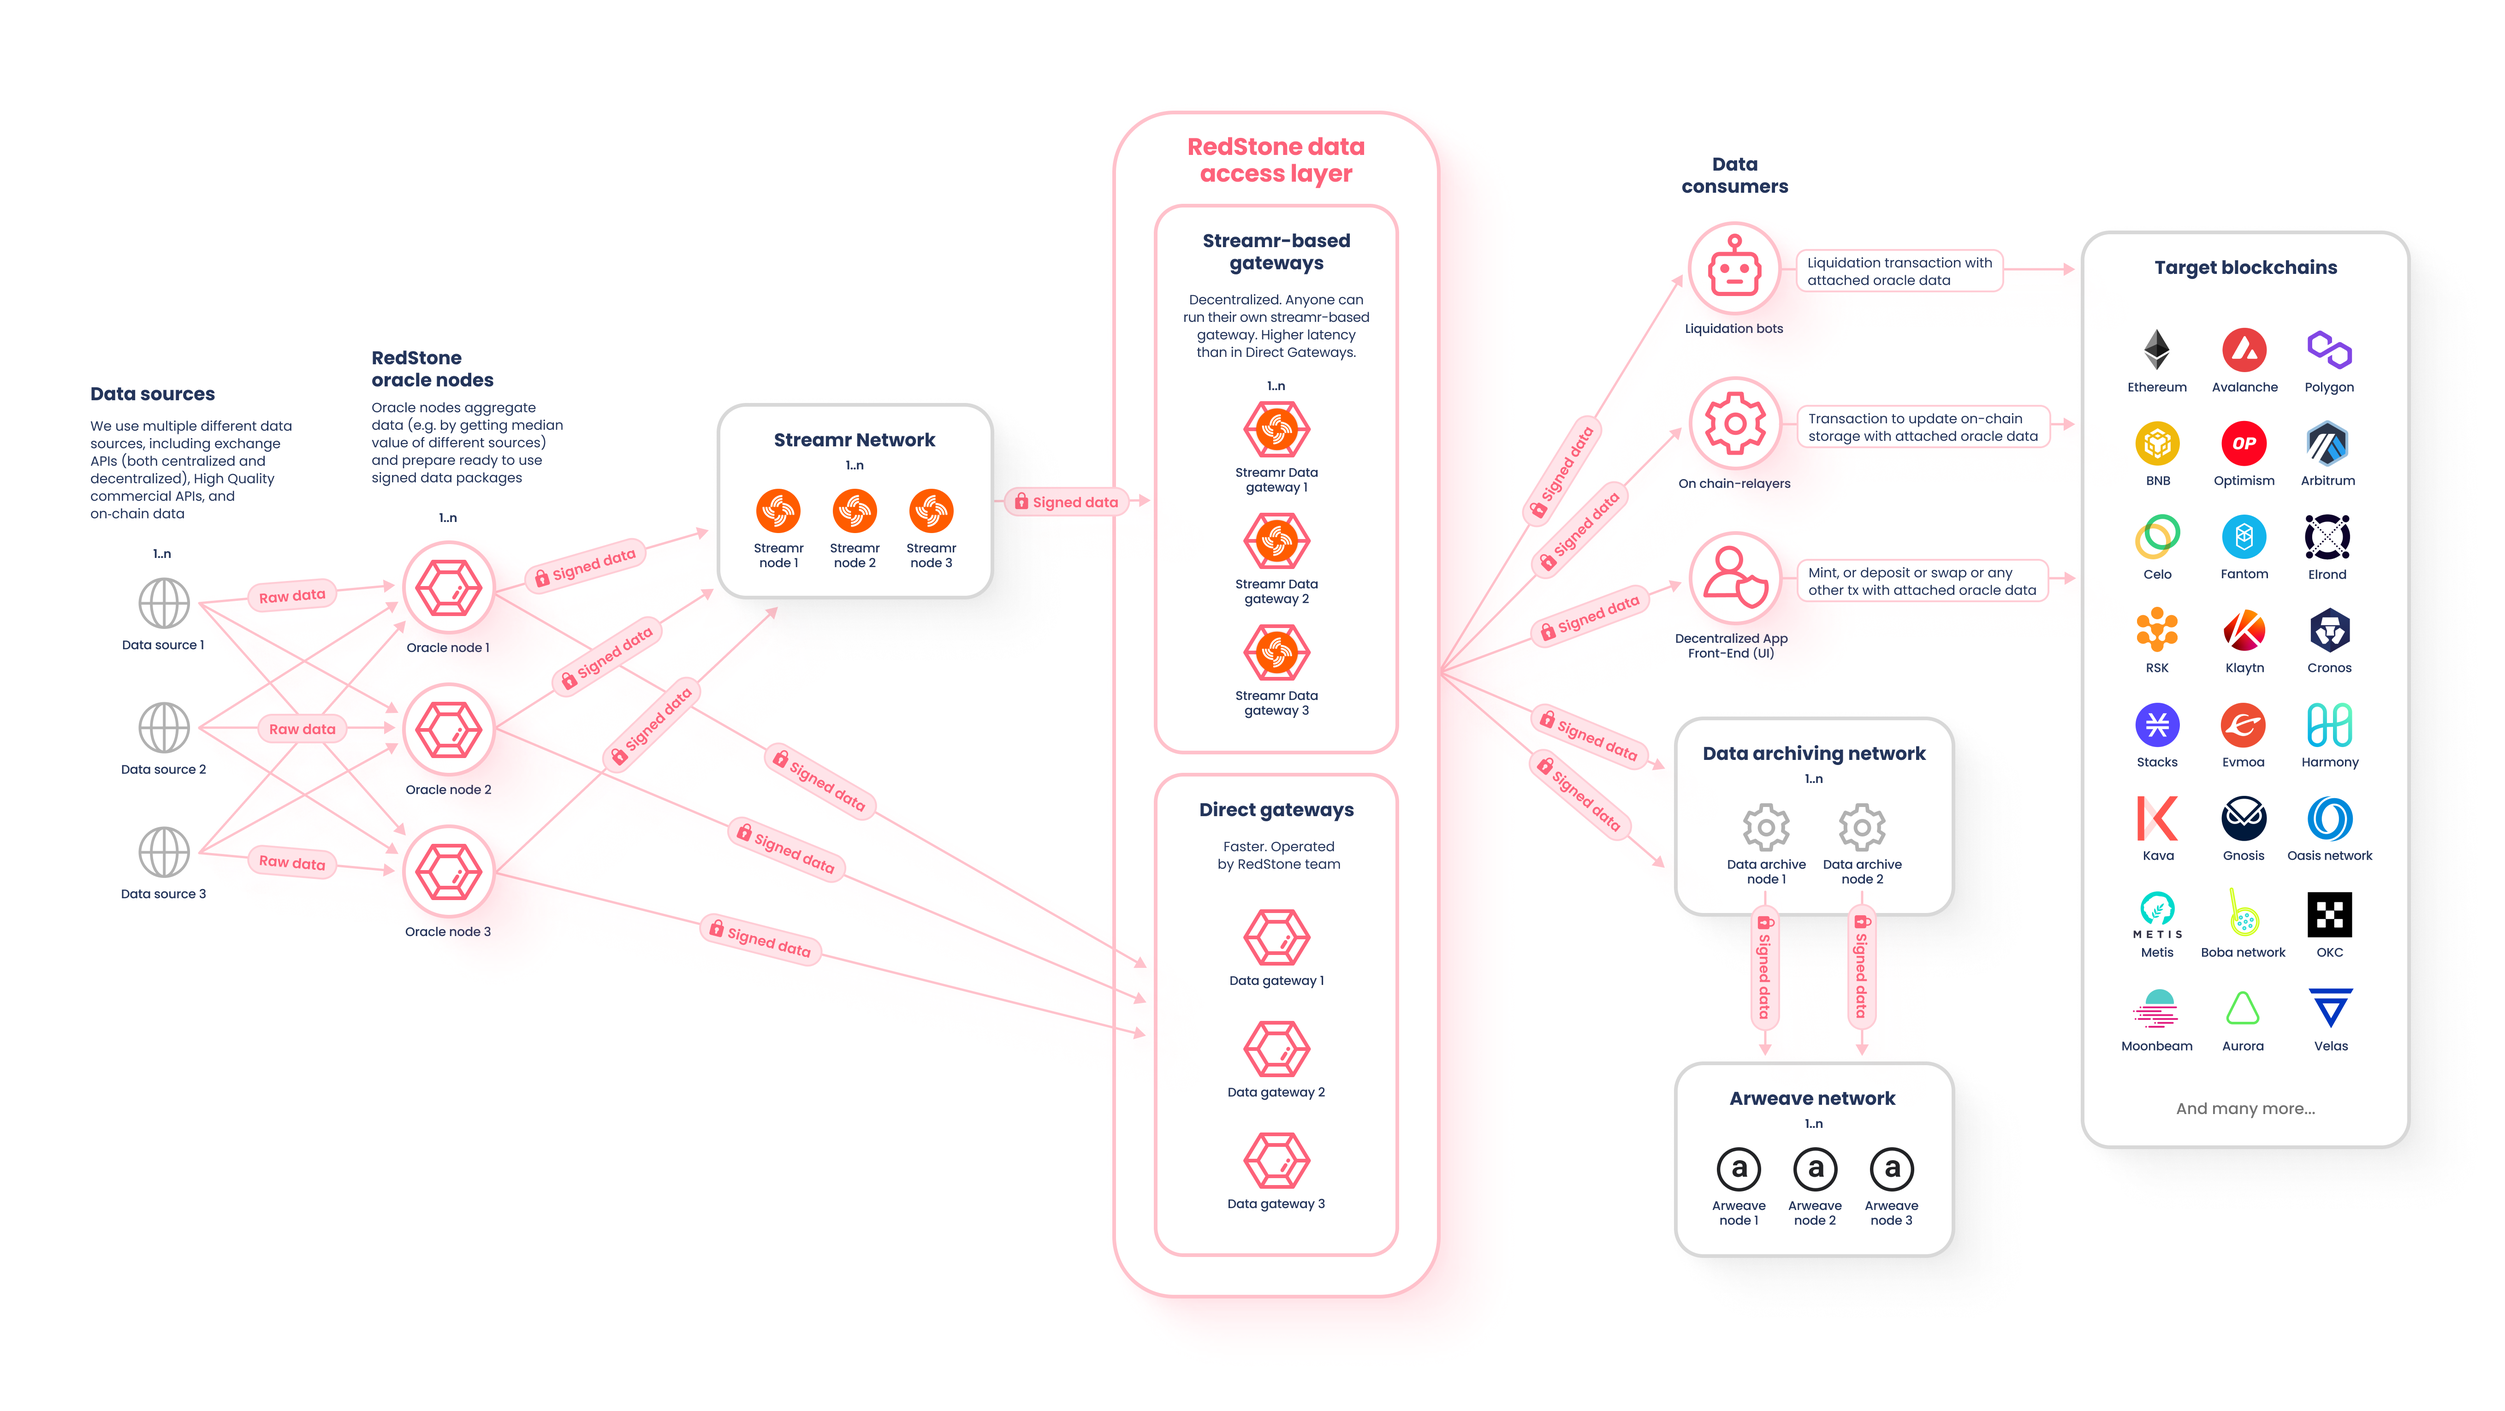
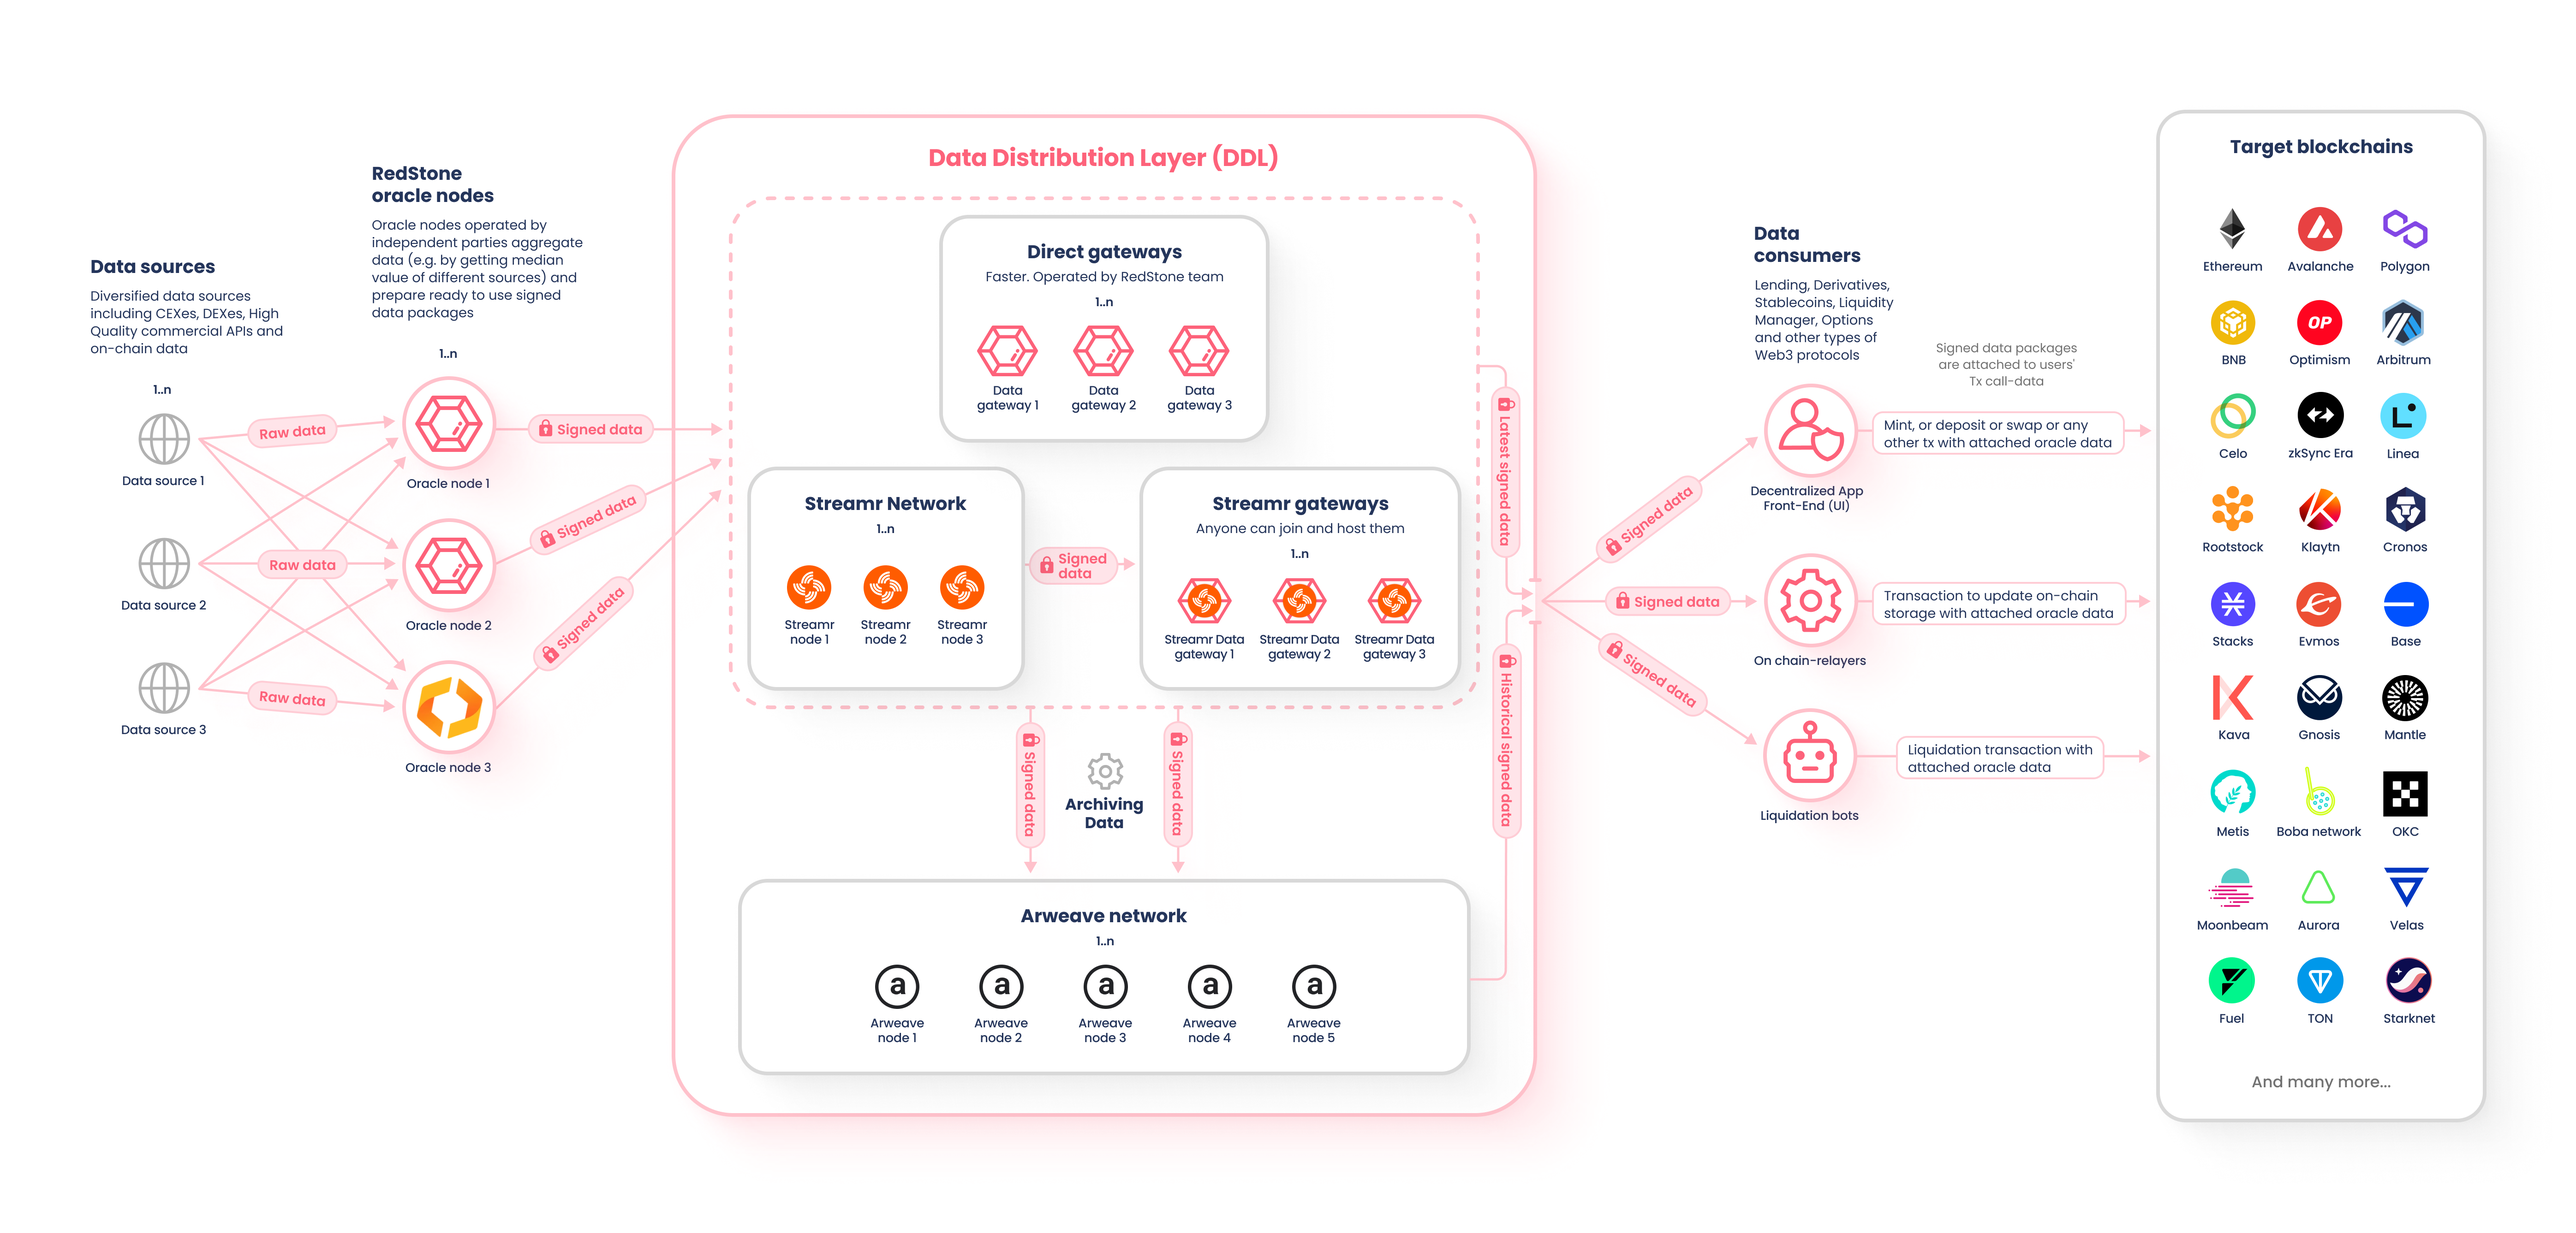
chore: added key changes from Marcin

diff --git a/docs/data-providers/running-oracle-node.md b/docs/data-providers/running-oracle-node.md
@@ -5,6 +5,12 @@ sidebar_label: "Running Oracle Node"
 
 # Running Oracle Node
 
+:::danger Requirements
+
+We are not onboarding new Data Providers at the moment, but we will be doing so in the near future. Thank you for your interest!
+
+:::
+
 This guide will teach you how to run a RedStone node with Docker. It will fetch data from main public APIs, sign them with your pirvate keys and broadcast to the streamr network and redstone data delivery network.
 :::info Running from source
 You can run RedStone oracle node [using source code](./launch-using-source-code), but it's recommended to run it with Docker. We continuously build and deploy the code from our Github repository, so you don’t need a complete development environment to run a node.

diff --git a/docs/introduction.md b/docs/introduction.md
@@ -36,6 +36,8 @@ RedStone offers a radically different design of Oracles catering to the needs of
 - RedStone has been live on mainnets since March 2022 with no downtime. Code was audited by ABDK, Packshield and L2Beat Co-Founder.
 - RedStone was a launch partner for [DeltaPrime](https://deltaprime.io/) on Avalanche and delivered data feeds not available anywhere else. Thanks to that DeltaPrime became the top 3 fastest growing dApps according to DefiLama.
 
+![RedStone Architecure](/img/redstone-architecture-simple.png)
+
 <!-- ## Building blocks
 
 The RedStone ecosystem could be divided into 3 main areas:

diff --git a/docs/smart-contract-devs/get-started/redstone-classic.md b/docs/smart-contract-devs/get-started/redstone-classic.md
@@ -16,7 +16,7 @@ Although the pure on-demand fetching model ([RedStone Core](./redstone-core.md))
 RedStone Classic has significant advantage over traditional push Oracles. Our modular design gives you decisive voice on when and how the price is updated (with other Oracles you have to accept dictated parameters).
 :::
 
-## How it works
+## How RedStone Classic works
 
 This approach is built on top of the [RedStone Core](./redstone-core.md) model maintaining the security of on-chain validation of data providers and timestamps. 
 

diff --git a/docs/smart-contract-devs/tokens.md b/docs/smart-contract-devs/tokens.md
@@ -1,13 +1,13 @@
 ---
 sidebar_position: 9
-sidebar_label: "🪙 Tokens"
+sidebar_label: "🪙 Tokenomics"
 ---
 
-# 🪙 Tokens
+# 🪙 Tokenomics
 
 :::danger Requirements
 
-The token has not being launched yet. Beware of anyone trying to sell you RedStone tokens.
+The RedStone token has not been launched yet. Beware of scammers and anyone trying to sell you RedStone tokens.
 
 :::
 
